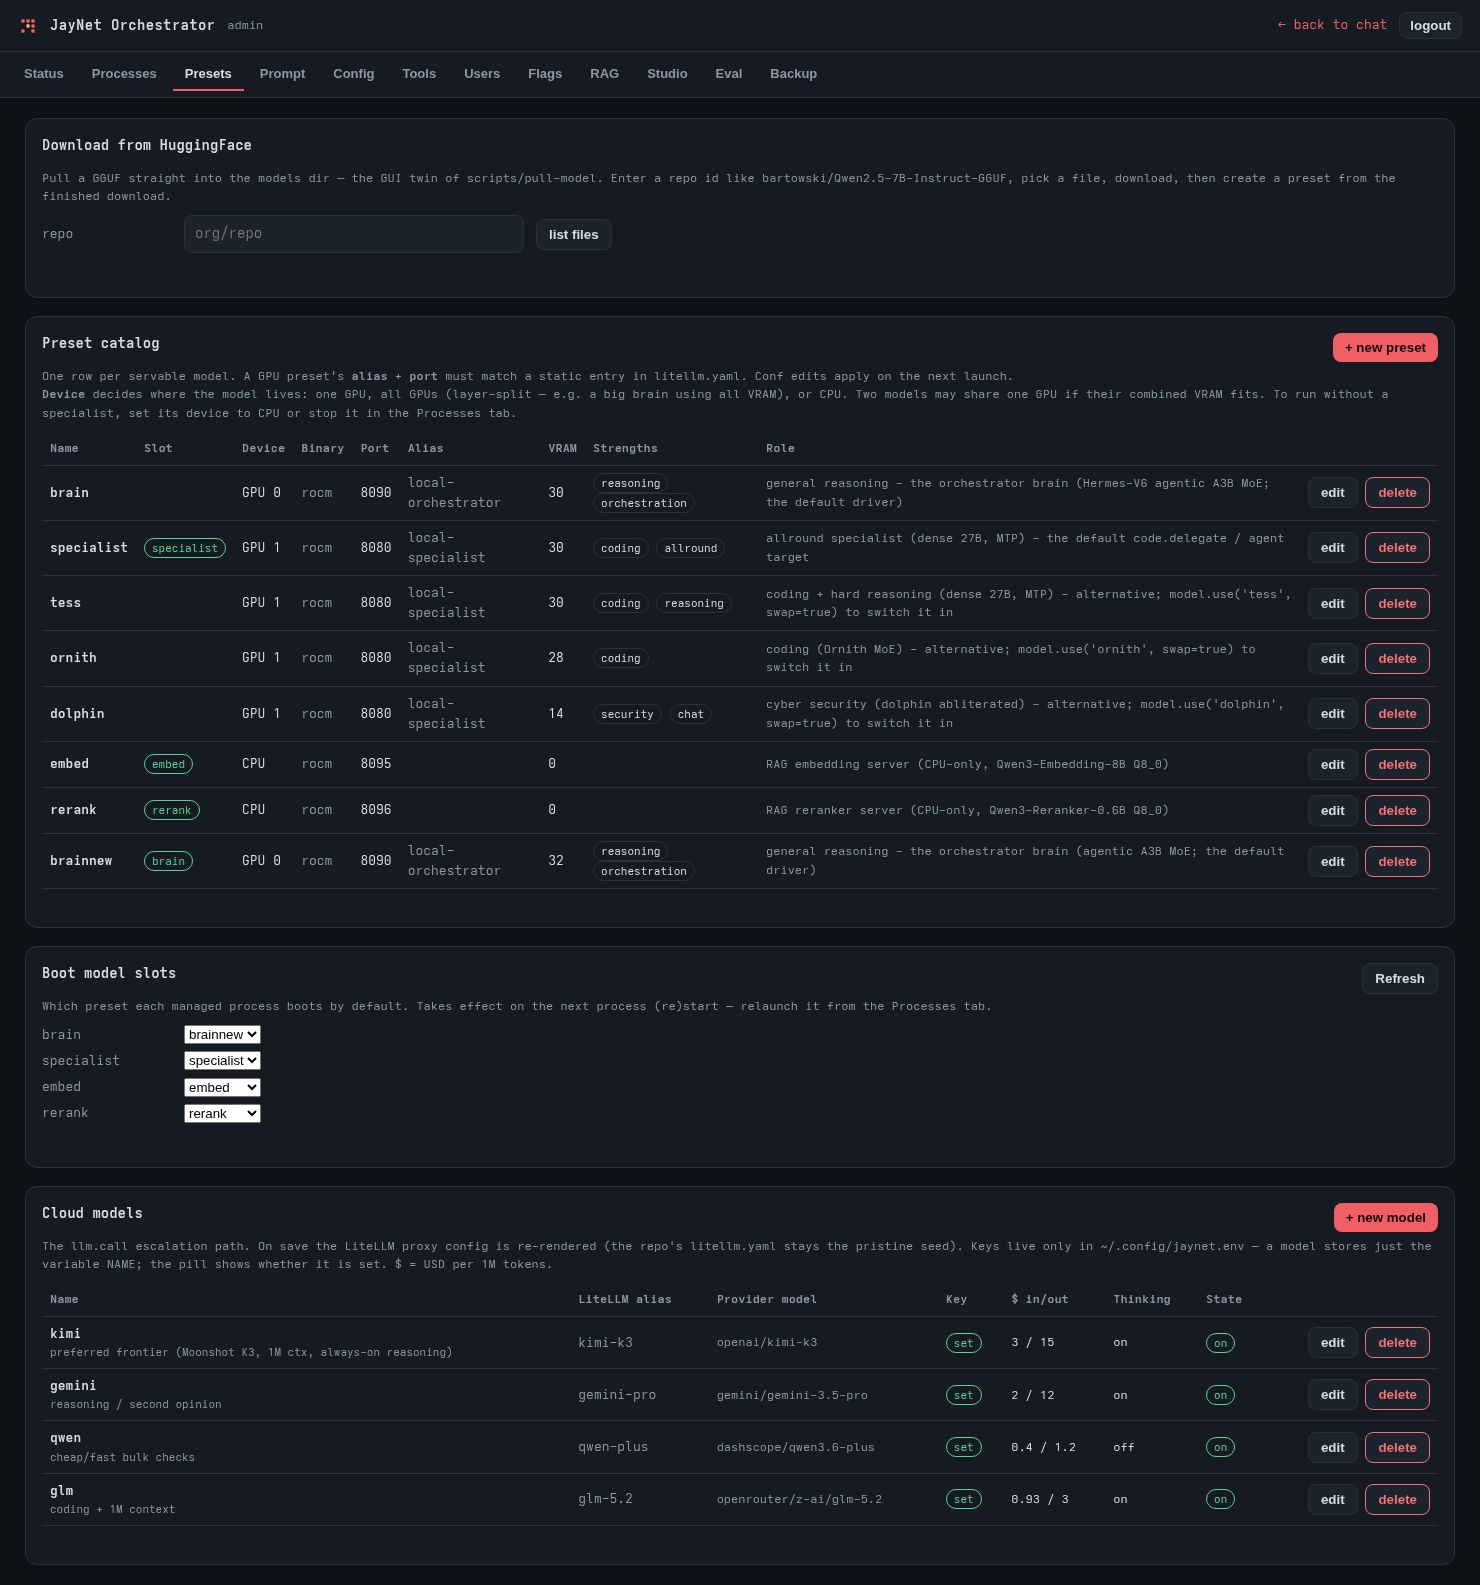
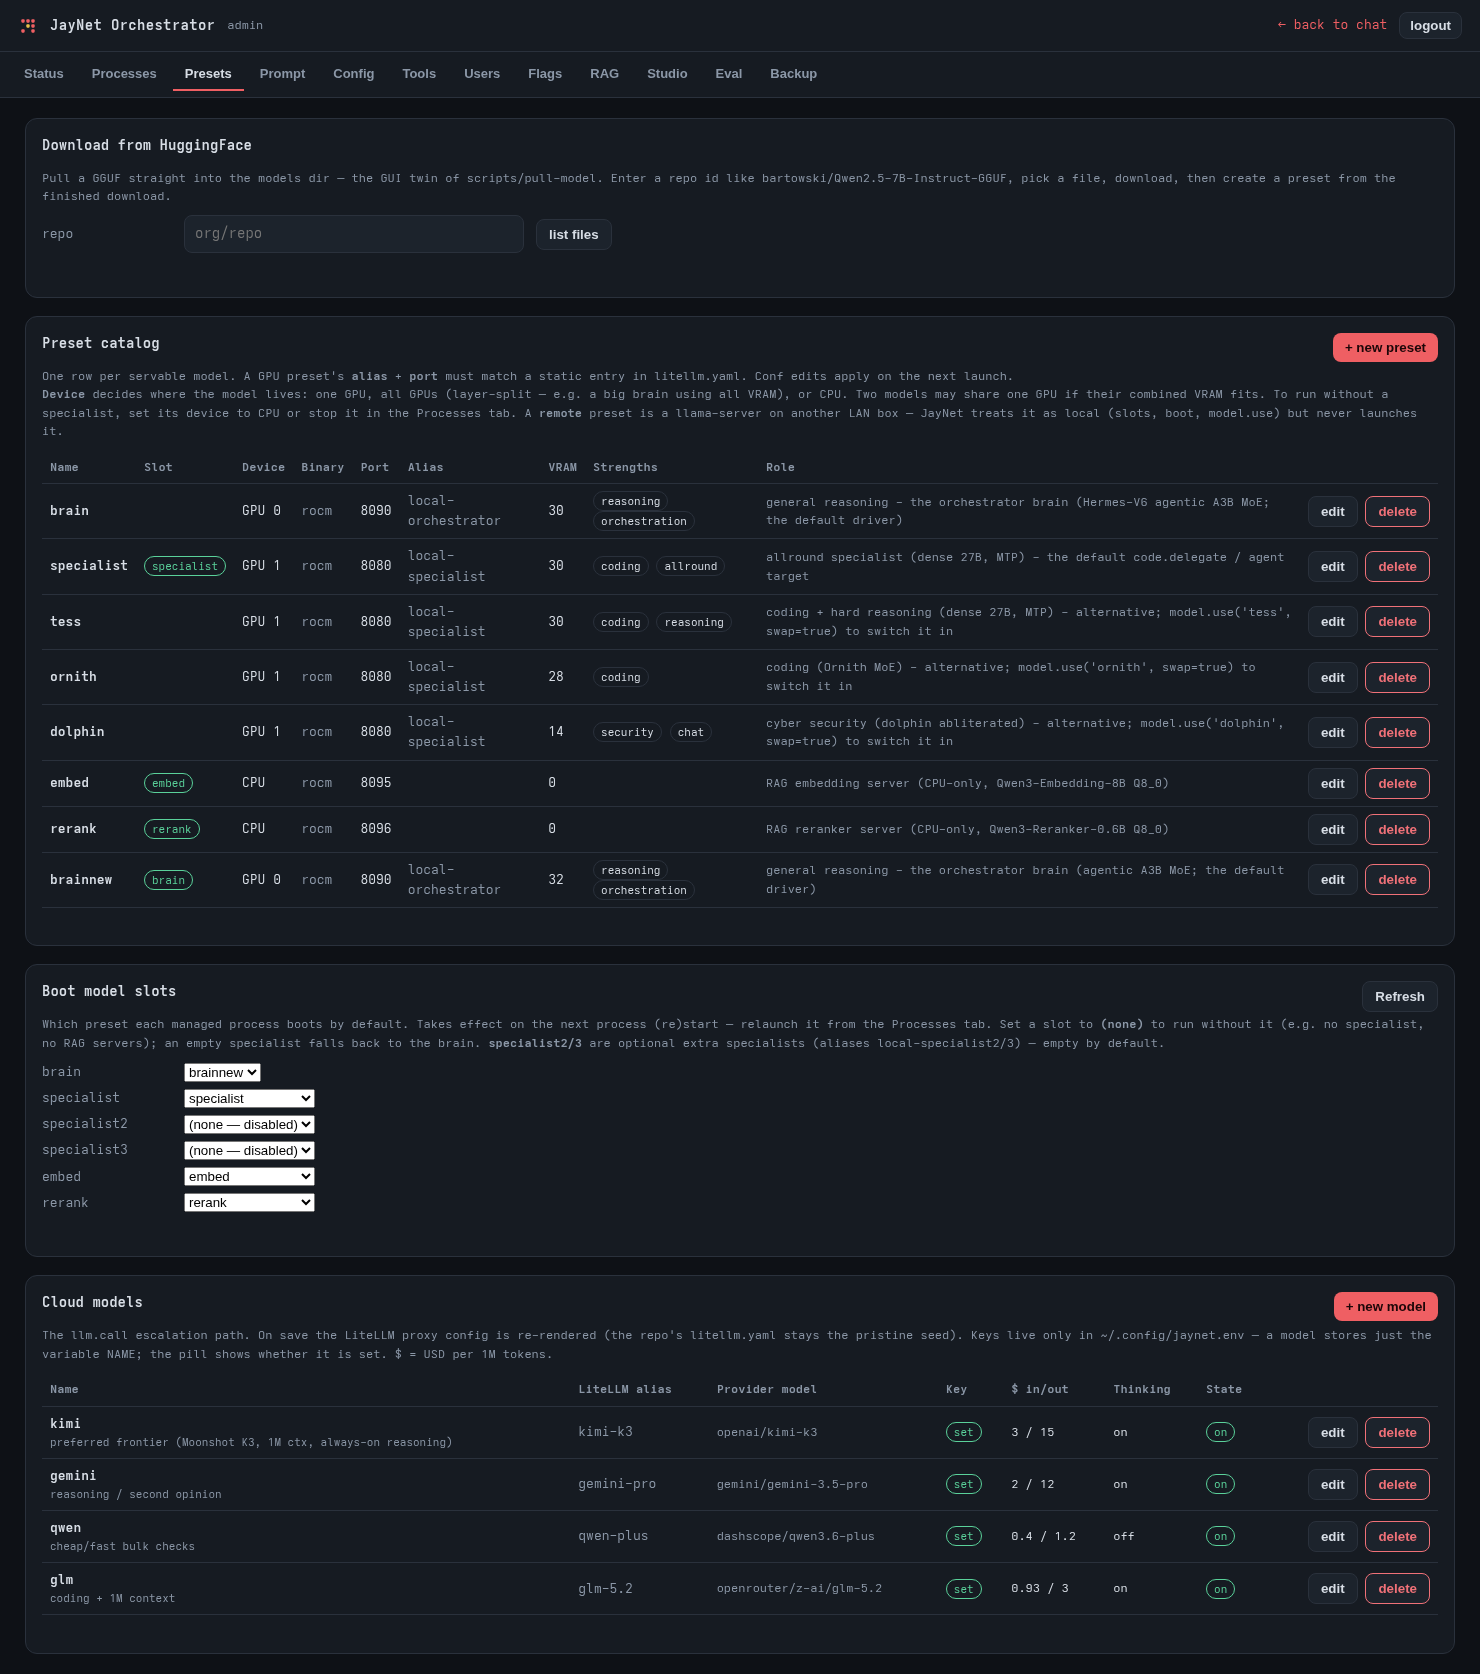
Audit fixes: remote boot slots, screenshots, changelog, docs
From /srv/presets_slots_todos_audit.md:
- A1: a remote preset in a boot slot no longer restart-loops
  start-model.sh at every web startup — the process manager skips
  remote slots (_slot_remote mirroring _slot_disabled), manual
  start/restart returns 409 with guidance, and the Processes tab
  shows 'remote — probe only (host)' instead of 'dead'
- A2: re-shot all 24 doc screenshots against live — (none) slot
  options and 'disabled (slot empty)' now visible
- A3: CHANGELOG Unreleased entries for remote presets, empty
  slots + specialist2/3, and the ToDos panel redesign
- A4: model-placement.md wording matches the actual boot behavior
- A5 (no code): legacy ~/.config/orchestrator.env confirmed fully
  superseded by jaynet.env — left in place as user backup

+1 test (test_admin_remote_slot_process_guards); suite 1083 passed

diff --git a/web/static/admin.html b/web/static/admin.html
@@ -1484,9 +1484,10 @@ function renderProcs(data){
     const st = document.querySelector("#proc-st-"+name);
     if(st){
       const label = s.disabled ? "disabled (slot empty)"
+        : s.remote ? "remote — probe only ("+s.remote+")"
         : s.stopping ? "stopping" : s.alive ? "alive" : "dead";
-      st.textContent = label + (!s.disabled && s.pid ? " (pid "+s.pid+")" : "");
-      st.className = "proc-status " + (s.disabled ? "stopping"
+      st.textContent = label + (!s.disabled && !s.remote && s.pid ? " (pid "+s.pid+")" : "");
+      st.className = "proc-status " + (s.disabled || s.remote ? "stopping"
         : s.stopping ? "stopping" : s.alive ? "alive" : "dead");
     }
     const meta = document.querySelector("#proc-meta-"+name);

diff --git a/web/routes_procs.py b/web/routes_procs.py
@@ -61,6 +61,10 @@ def register(app, s):
                 print(f"[process-manager] {name}: slot empty — not starting "
                       f"(assign a preset in admin → Presets to enable)")
                 continue
+            if (remote := _slot_remote(name)):
+                print(f"[process-manager] {name}: remote slot ({remote}) — "
+                      f"probe only, nothing to launch locally")
+                continue
             await proc_mgr.start_one(name)
         if proc_mgr.names():
             print(f"[process-manager] {len(proc_mgr.names())} managed processes: "
@@ -177,6 +181,18 @@ def register(app, s):
         slots = (runtime.config.get("models") or {}).get("slots") or {}
         return name in slots and not slots[name]
 
+    def _slot_remote(name: str) -> str:
+        """The remote host if the slot's preset is served by another LAN box
+        ("" otherwise). Remote slots never launch locally — probe-only."""
+        from runtime.preset_store import SLOTS, resolve_slot
+        if name not in SLOTS:
+            return ""
+        try:
+            return (resolve_slot(runtime.config, name).get("remote_host")
+                    or "").strip()
+        except Exception:
+            return ""
+
     def _metrics_port(name: str) -> int | None:
         """The llama-server port for a managed process, resolved through the
         slot mapping (process names mirror slot names: brain/specialist/...)."""
@@ -220,6 +236,7 @@ def register(app, s):
         async def _enrich(item):
             name, st = item
             return name, {**st, "disabled": _slot_disabled(name),
+                          "remote": _slot_remote(name),
                           "stats": await _proc_stats(name, bool(st.get("alive")))}
         pairs = await asyncio.gather(*(_enrich(i) for i in data.items()))
         return dict(pairs)
@@ -238,6 +255,10 @@ def register(app, s):
             raise HTTPException(
                 409, f"{name}: its boot slot is empty — assign a preset in "
                      f"admin → Presets (Boot model slots) first")
+        if (remote := _slot_remote(name)):
+            raise HTTPException(
+                409, f"{name}: remote slot — served by {remote}, probe only. "
+                     f"Start llama-server on {remote}, not here.")
         await proc_mgr.stop_one(name)
         await asyncio.sleep(1)
         await proc_mgr.start_one(name)
@@ -258,5 +279,9 @@ def register(app, s):
             raise HTTPException(
                 409, f"{name}: its boot slot is empty — assign a preset in "
                      f"admin → Presets (Boot model slots) first")
+        if (remote := _slot_remote(name)):
+            raise HTTPException(
+                409, f"{name}: remote slot — served by {remote}, probe only. "
+                     f"Start llama-server on {remote}, not here.")
         await proc_mgr.start_one(name)
         return {"ok": True, "name": name}

diff --git a/tests/test_preset_store.py b/tests/test_preset_store.py
@@ -549,3 +549,25 @@ async def test_admin_slot_disable_and_process_guards(web_app, web_client):
                     json={"updates": {"specialist": "specialist"}})
         procs = (await c.get("/api/admin/processes")).json()
         assert procs["specialist"]["disabled"] is False
+
+
+@pytest.mark.asyncio
+async def test_admin_remote_slot_process_guards(web_app, web_client):
+    """A remote preset in a boot slot: the process manager never launches it
+    (audit A1 — it used to burn ~20 restart cycles at every web startup)."""
+    app = web_app()
+    async with web_client(app) as c:
+        r = await c.post("/api/admin/presets",
+                         json={"name": "attic", "alias": "local-attic",
+                               "remote_host": "192.168.1.50", "port": 8085})
+        assert r.status_code == 200
+        await c.put("/api/admin/preset-slots",
+                    json={"updates": {"specialist": "attic"}})
+        procs = (await c.get("/api/admin/processes")).json()
+        assert procs["specialist"]["remote"] == "192.168.1.50"
+        assert procs["specialist"]["disabled"] is False
+        assert procs["brain"]["remote"] == ""
+        r = await c.post("/api/admin/processes/specialist/restart")
+        assert r.status_code == 409 and "remote slot" in r.json()["detail"]
+        r = await c.post("/api/admin/processes/specialist/start")
+        assert r.status_code == 409

diff --git a/CHANGELOG.md b/CHANGELOG.md
@@ -5,6 +5,32 @@ contract lives in `docs/api.md`, upgrade procedure in `docs/upgrading.md`.
 
 ## Unreleased
 
+- **Remote presets: local models served by another LAN box.** A preset with
+  a `remote_host` (Admin → Presets → *remote* checkbox) is a llama-server
+  running elsewhere in the homelab, treated like a local preset — boot
+  slots, `model.use`, `model.list`, `local-*` aliases — except JayNet never
+  launches/swaps/stops it: the process manager skips remote slots at boot
+  (*remote — probe only* on the Processes tab), `serve.start` and
+  `start-model.sh` refuse them, and `model.use` only health-probes. Stays
+  out of cloud models, so the privacy gate keeps classifying it as local;
+  no cost, no key. Plain HTTP on the LAN — see
+  [docs/model-placement.md](docs/model-placement.md).
+
+- **Boot slots can be empty; up to three specialists.** Every slot except
+  brain can be set to **(none)** (Admin → Presets → Boot model slots) to
+  run without that process — skipped at startup, shown as *disabled (slot
+  empty)*, manual start refused. An empty specialist keeps its LiteLLM
+  alias alive by following the brain. New optional `specialist2` /
+  `specialist3` slots (ship empty; new dormant `processes:` entries in
+  runtime.yaml) render as `local-specialist2` / `local-specialist3`
+  aliases while assigned.
+
+- **ToDos panel: floating tab/card on all viewports.** Collapses to a small
+  status tab (JayNet-logo pip: pulsing while working, goldenrod pending,
+  red failed, green all done) pinned inside the chat area on desktop and
+  mobile; expands to the full step list in place. ToDos clear on the next
+  prompt after a run finishes.
+
 - **Rebrand: orchestrator → jaynet in deployment-facing names.** The env
   file moves to `~/.config/jaynet.env` (template
   `example_configs/jaynet.env.example`), the web unit to

diff --git a/docs/model-placement.md b/docs/model-placement.md
@@ -58,9 +58,11 @@ A preset with **remote** enabled + a `remote host` is a llama-server that
 runs on *another machine* in your homelab. JayNet treats it exactly like a
 local preset — it can fill a boot slot (brain/specialist), shows up in
 `model.list`, and `model.use` returns its alias — with one difference:
-**JayNet never launches, swaps, or stops it.** `model.use` and boot only
-health-probe `http://<host>:<port>` and report *unreachable* if nothing
-answers; `serve.start` and `start-model.sh` refuse remote presets outright.
+**JayNet never launches, swaps, or stops it.** The process manager skips a
+remote slot at boot (*remote — probe only* on the Processes tab) and refuses
+manual starts; `model.use` health-probes `http://<host>:<port>` and reports
+*unreachable* if nothing answers; `serve.start` and `start-model.sh` refuse
+remote presets outright.
 
 Setup on the remote box:
 
